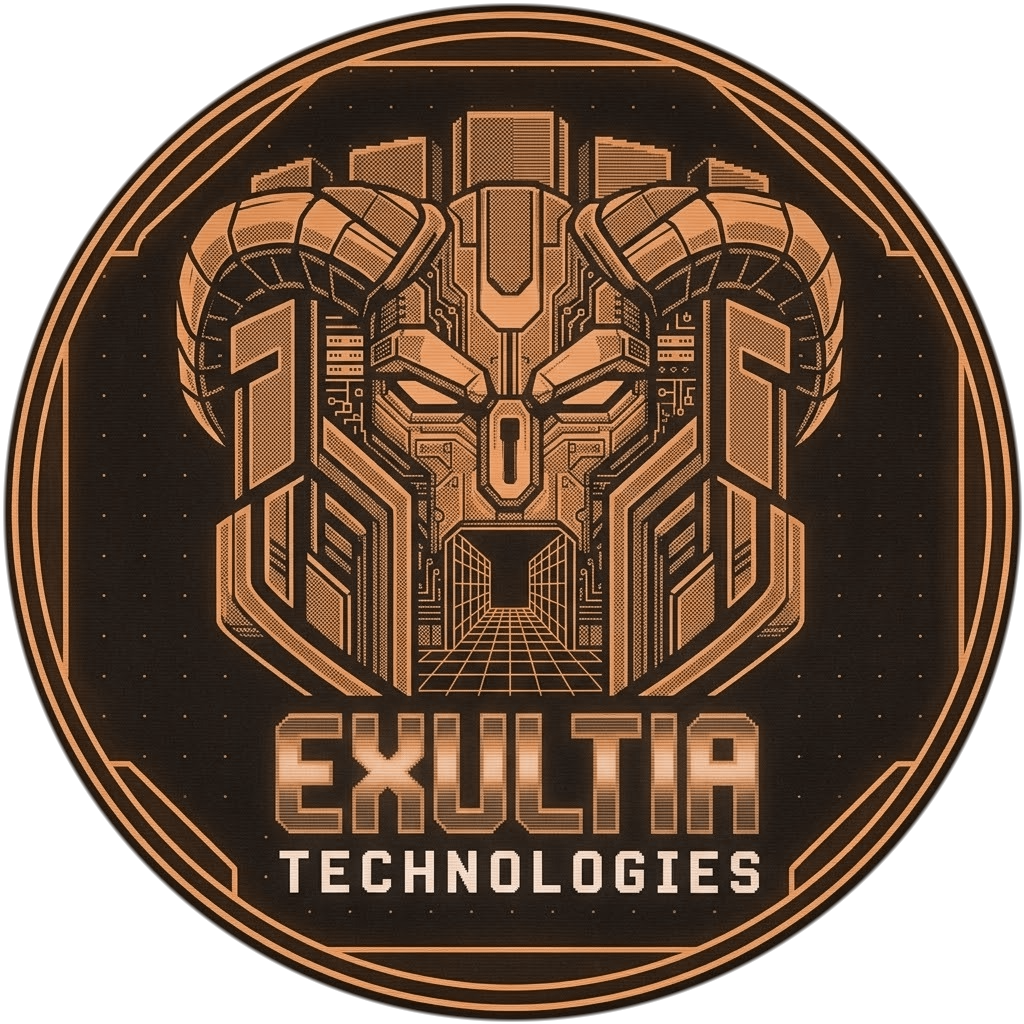
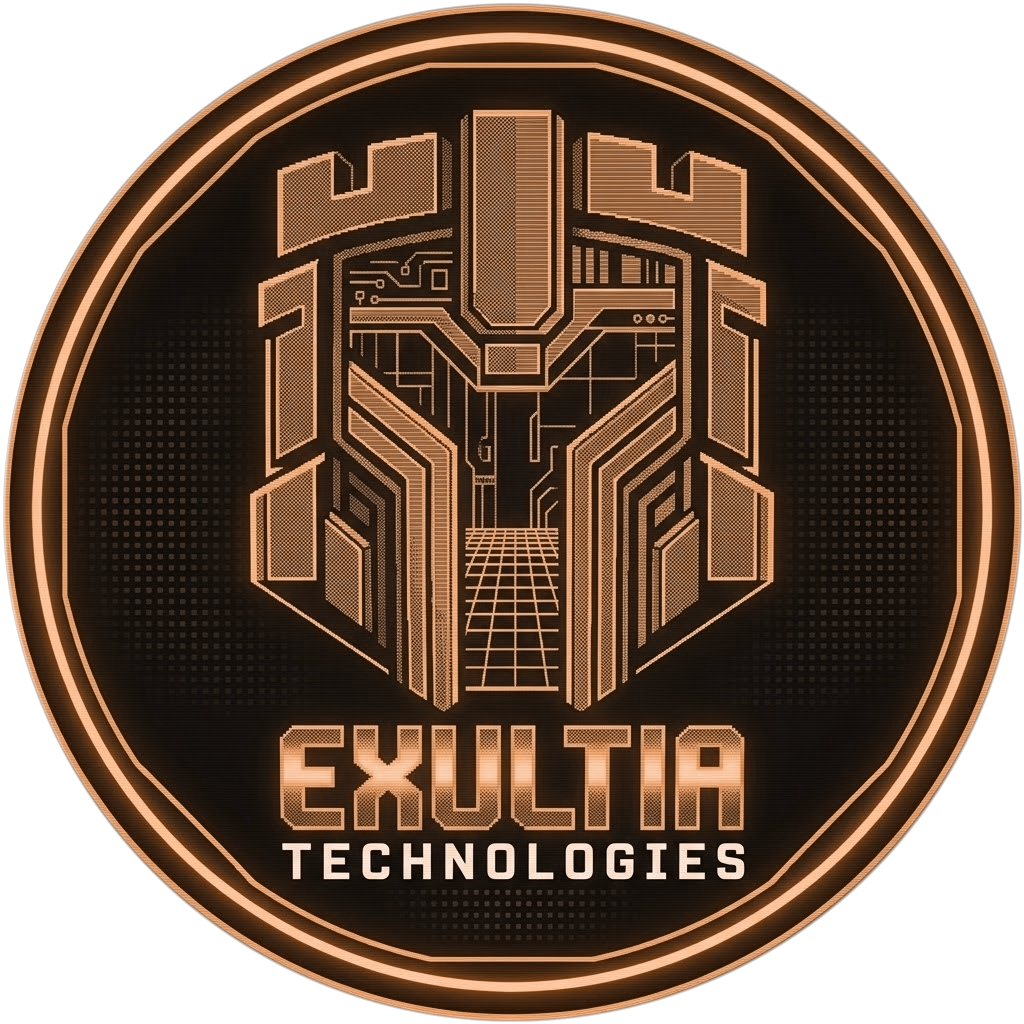
feat(branding): update company emblem to Cybernetic Fortress Helm across all palettes

diff --git a/src/components/BrandIcons.tsx b/src/components/BrandIcons.tsx
@@ -15,8 +15,8 @@ interface IconProps {
  */
 /**
  * Exultia Flagship Company Logo
- * Radical DOOM-esque cybernetic horned demon helm emblem featuring
- * glowing visor eyes, mechanical brow conduits, and wireframe perspective gateway.
+ * Radical DOOM-esque cybernetic fortress helm emblem featuring
+ * glowing visor brow, etched circuit traces, and wireframe perspective gateway.
  */
 interface ExultiaLogoProps extends IconProps {
   palette?: "cyan" | "orange" | "green" | "magenta" | "auto";
@@ -61,7 +61,7 @@ export function ExultiaLogo({ size = 48, className = "", glow = false, palette =
     >
       <img
         src={emblemSrc}
-        alt="Exultia Technologies Cybernetic Demon Helm"
+        alt="Exultia Technologies Cybernetic Fortress Helm"
         width={size}
         height={size}
         style={{
